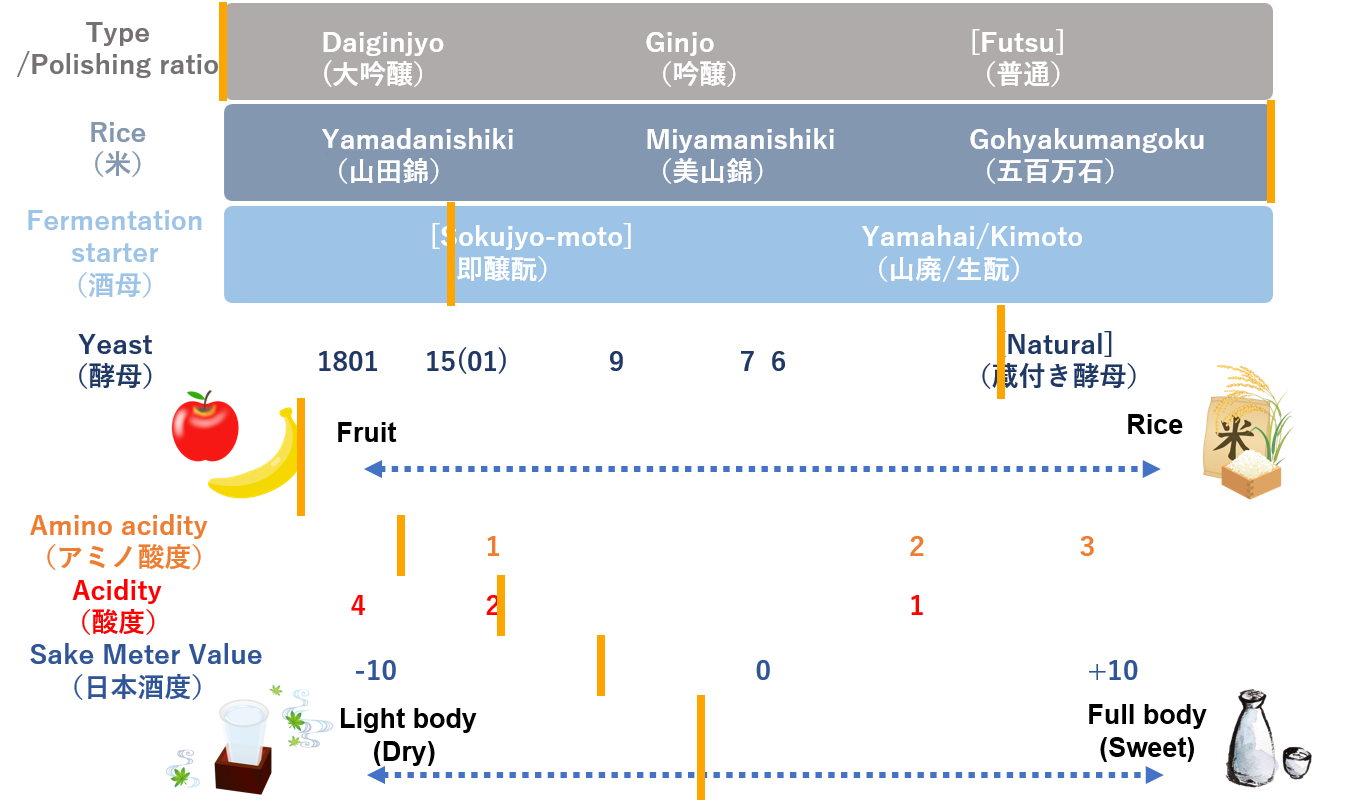
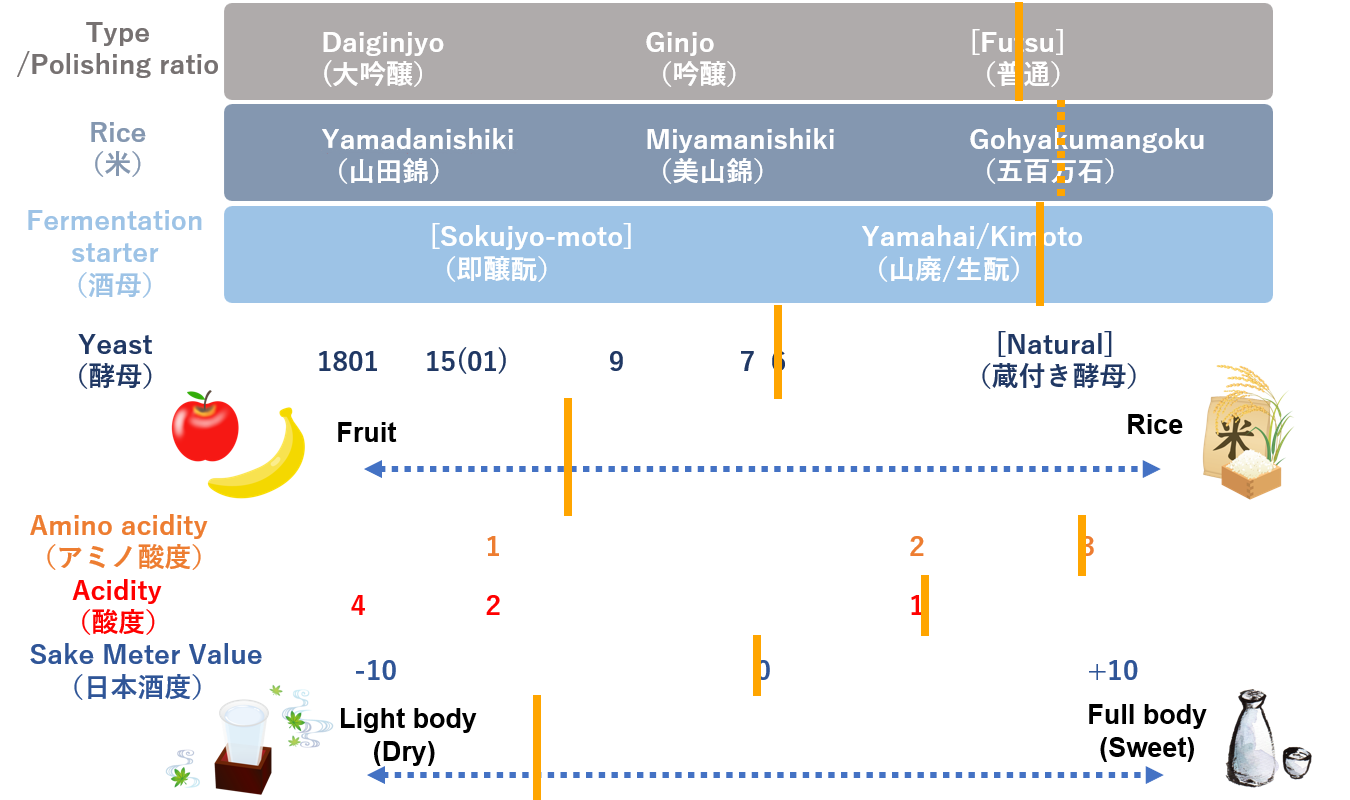
oriinal adv version entity values decided

diff --git a/original-advanced-straightline-diagram-creation.py b/original-advanced-straightline-diagram-creation.py
@@ -1,5 +1,25 @@
 from PIL import Image, ImageDraw
 
+type = 76  # 15:大吟醸 45:吟醸 52:特別純米 60:純米 76:普通
+rice = 80  # 18:山田錦 50:美山錦 80:五百万石
+fstarter = 78  # 30:速醸酛 70:山廃 78:生酛
+yeast = 53  # 12:1801 23:15(01) 38:9 50:7 53:6 
+ForR = 33  # 0:Fruit 100:Rice
+amino = 82  # 26:1 66:2 82:3
+acid = 67  # 13:4 15:3 26:2 67:1 
+svm = 51  # 15:-10 51:0 86:10
+DorS = 30  # 0:Dry 100:Sweet
+
+# ラインの一番左のピクセル
+av_line_start_left = 222
+# ラインの一番右のピクセル
+av_line_end_right = 1270
+# ラインの一番左から一番右までの長さ
+av_line_length = av_line_end_right - av_line_start_left
+# パーセンテージを掛けて長さを計算するための定数
+av_line_add = av_line_length/100
+
+
 def draw_custom_lines(image_path, lines):
     """
     Draw lines with custom settings on an image.
@@ -35,16 +55,17 @@ def draw_custom_lines(image_path, lines):
         img.save("advanced-lined.png")
         img.show()
 
-# Example usage
+# 描くラインをリストで提供
 lines = [
-    (222, 2, 222, 100, "solid", 8),  # Dotted line from (start-tupple) to (end-tupple) with thickness 8
-    (1270, 100, 1270, 202, "solid", 8),
-    (450, 202, 450, 305, "solid", 8), 
-    (1000, 305, 1000, 398, "solid", 8),
-    (300, 398, 300, 515, "solid", 8),
-    (400, 515, 400, 575, "solid", 8), 
-    (500, 575, 500, 635, "solid", 8),
-    (600, 635, 600, 695, "solid", 8),
-    (700, 695, 700, 800, "solid", 8),
+    (av_line_start_left+type*av_line_add, 2, av_line_start_left+type*av_line_add, 100, "solid", 8),  # Dotted line from (start-tupple) to (end-tupple) with thickness 8
+    (av_line_start_left+rice*av_line_add, 100, av_line_start_left+rice*av_line_add, 202, "dotted", 8),
+    (av_line_start_left+fstarter*av_line_add, 202, av_line_start_left+fstarter*av_line_add, 305, "solid", 8), 
+    (av_line_start_left+yeast*av_line_add, 305, av_line_start_left+yeast*av_line_add, 398, "solid", 8),
+    (av_line_start_left+ForR*av_line_add, 398, av_line_start_left+ForR*av_line_add, 515, "solid", 8),
+    (av_line_start_left+amino*av_line_add, 515, av_line_start_left+amino*av_line_add, 575, "solid", 8), 
+    (av_line_start_left+acid*av_line_add, 575, av_line_start_left+acid*av_line_add, 635, "solid", 8),
+    (av_line_start_left+svm*av_line_add, 635, av_line_start_left+svm*av_line_add, 695, "solid", 8),
+    (av_line_start_left+DorS*av_line_add, 695, av_line_start_left+DorS*av_line_add, 800, "solid", 8),
 ]
+
 draw_custom_lines("advanced.png", lines)
